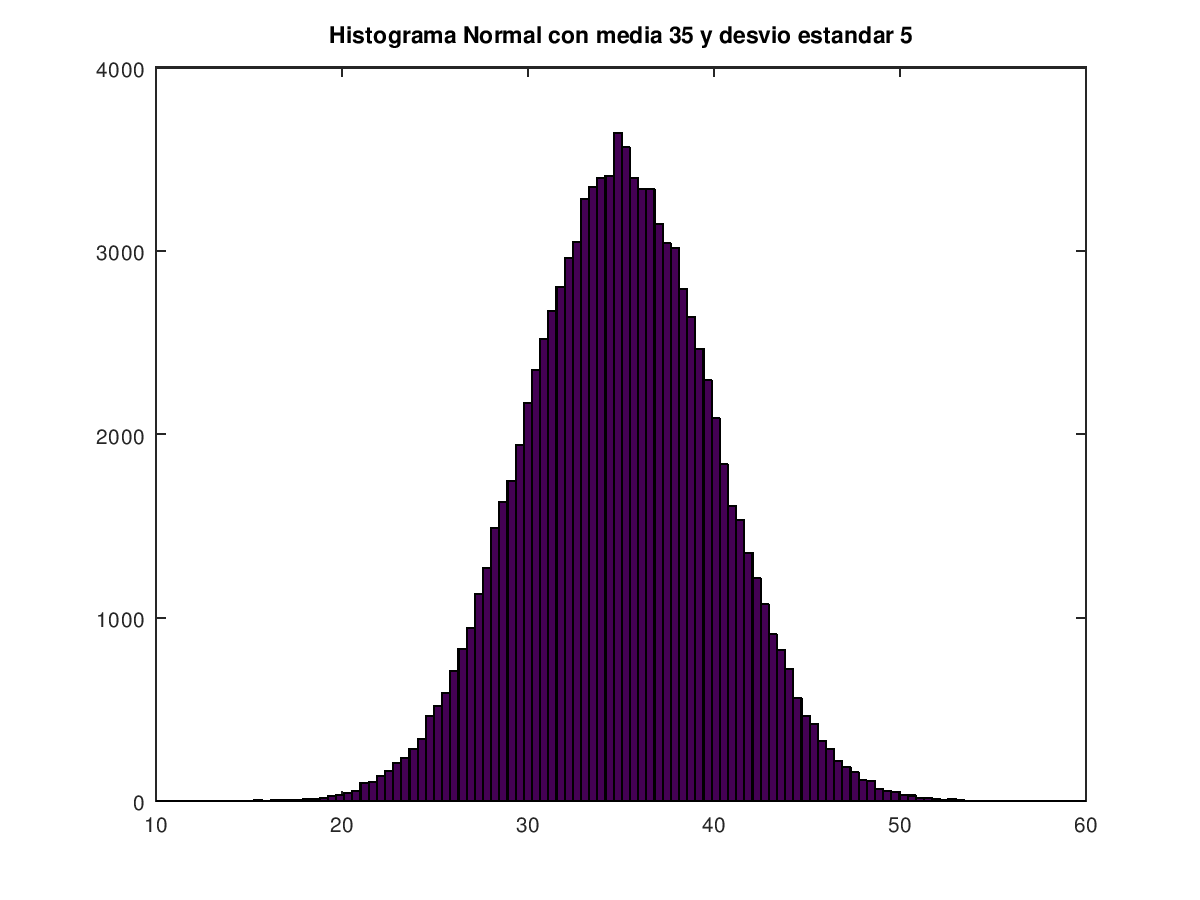
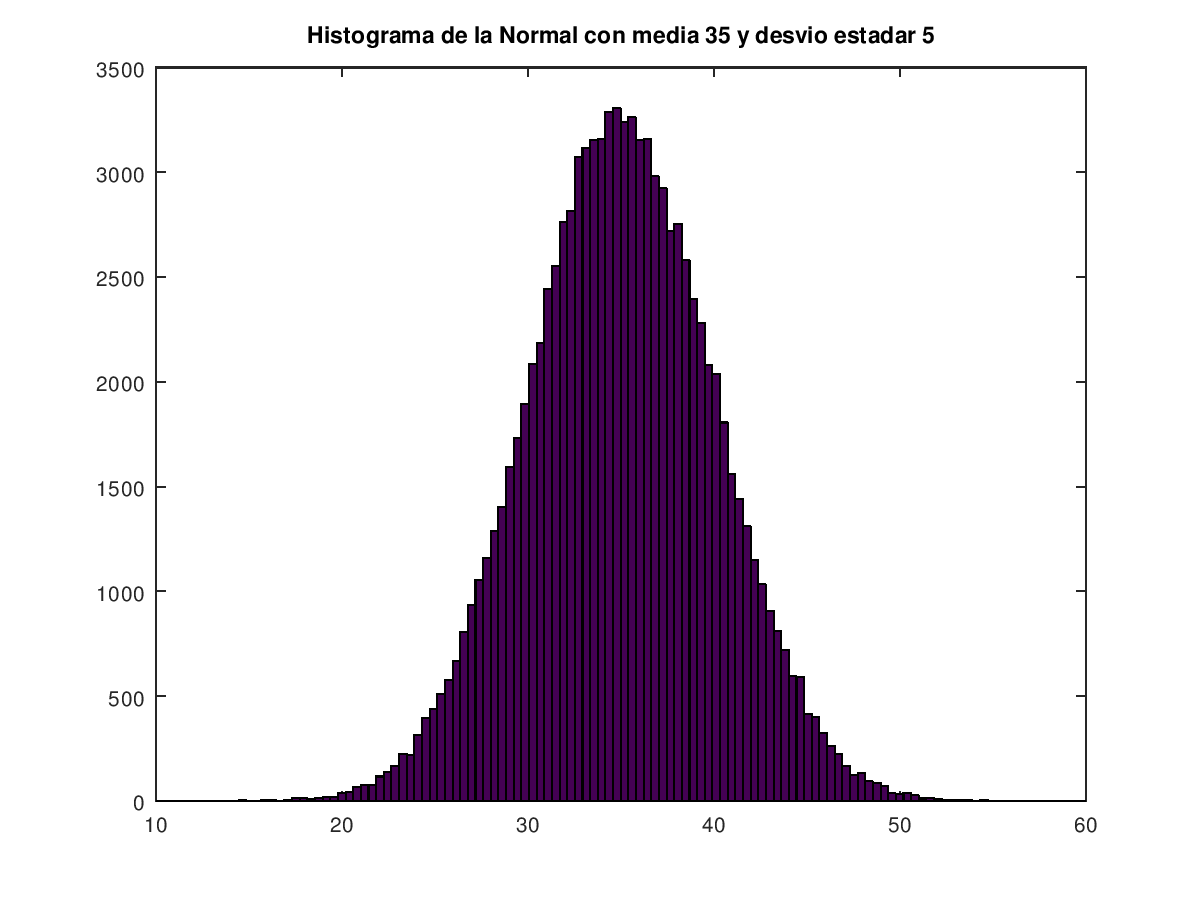
Unificación de archivos

diff --git a/TP1/generadorNormal.m b/TP1/generadorNormal.m
@@ -1,22 +1,20 @@
 function z= generadorNormal(media,desvioEstandar)
   
-  c = sqrt(2*exp(1)/pi);
-  i = 0;
+   c = sqrt(2*exp(1)/pi);
+  i=0;
   while i <100000
-    j = rande();
-    u = rand();
-    if u < ((exp(-j.^2/2)/sqrt(2*pi))/(c*exp(-j)))
-      w = rand();
+    j=rande();
+    u=rand();
+    if u<((exp(-j.^2/2)/sqrt(2*pi))/(c*exp(-j)))
+      w=rand();
       if w<0.5
-        z(end + 1) = j;
+        z(end + 1)=round(1000*(desvioEstandar*j+media))/1000;
       else
-        z(end+1) = -j;
+        z(end+1)=round(1000*(desvioEstandar*(-j)+media))/1000;
       endif
-      i = i+1;
+      i=i+1;
     endif
   endwhile
-  for k = 1:100000
-    z(k) = desvioEstandar*z(k)+media;
-  endfor
-   
+ 
+  
 endfunction

diff --git a/TP1/generadorNormalInversa.m b/TP1/generadorNormalInversa.m
@@ -9,7 +9,9 @@ function z = generadorNormalInversa(n)
   p = splinefit(x,y,8,"order",4);
   u=generadorAleatorioLineal(n);
   for i = 1:n
-    z(end+1) =ppval(p,u(i));
+    z(end+1) =round(1000*(ppval(p,u(i))))/1000;
 
   endfor
 endfunction
+
+
